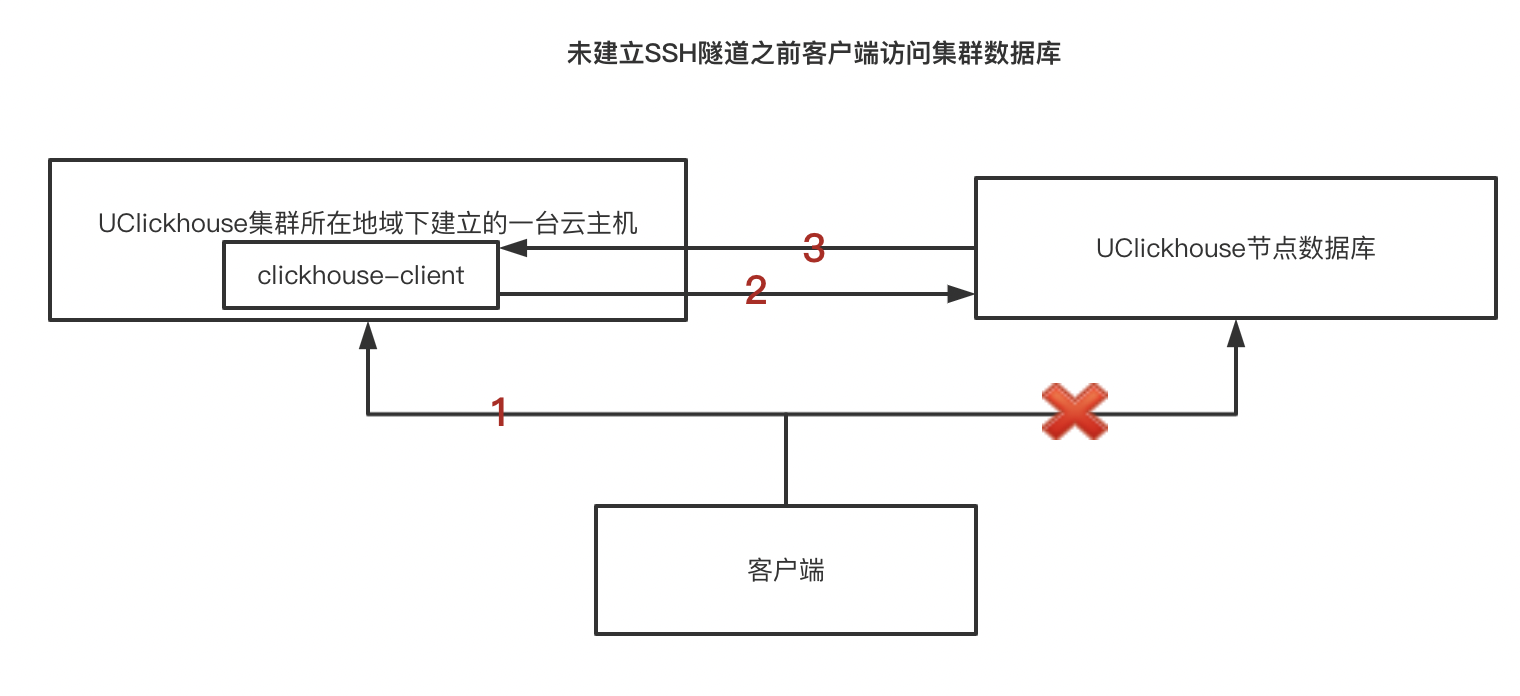
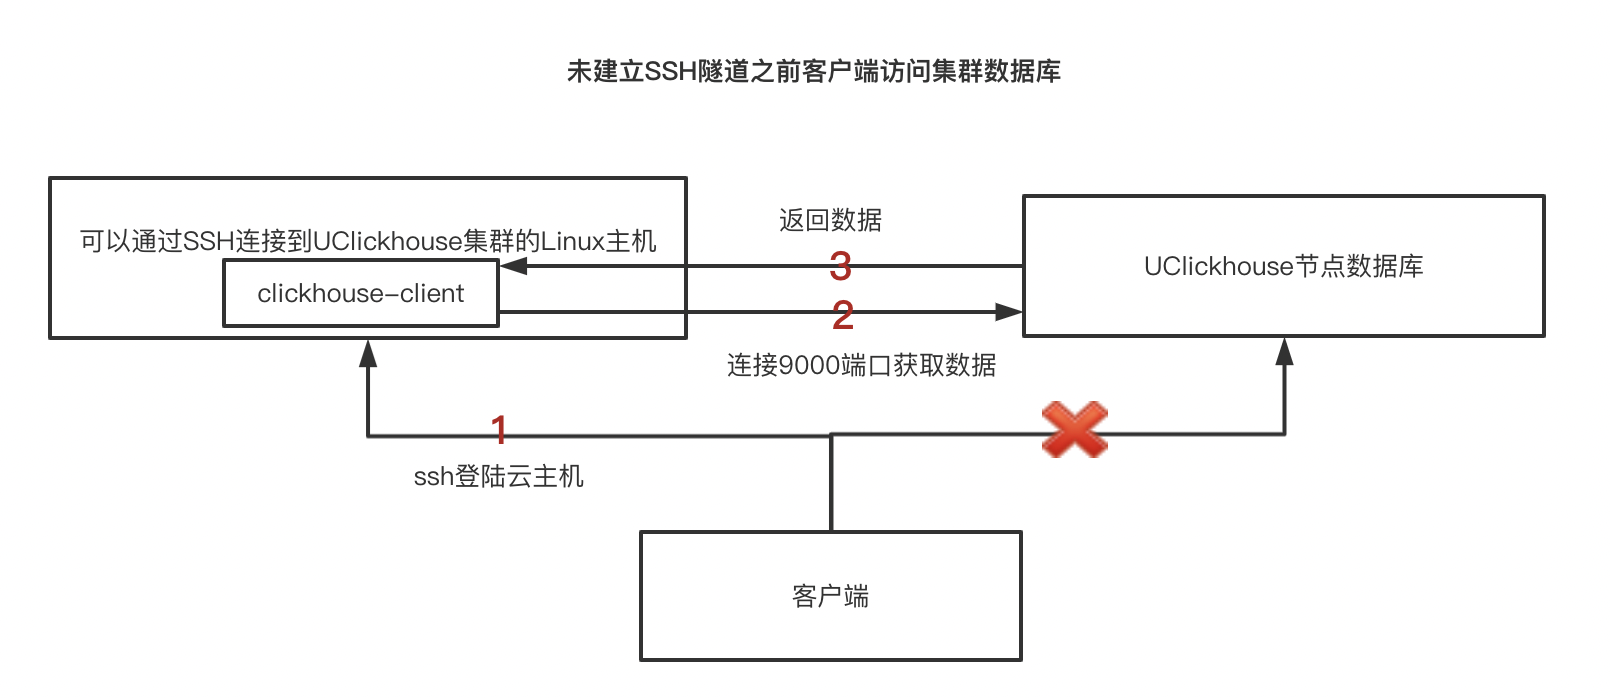
修改文件

diff --git a/operation_guide/connect_cluster/visual_tools.md b/operation_guide/connect_cluster/visual_tools.md
@@ -4,11 +4,11 @@ UClickhouse可以通过第三方客户端工具连接实例，针对有数据可
 
 ### DataGrip简介
 
-[DataGrip](https://www.jetbrains.com/datagrip/) 是JetBrains的数据库IDE，专门支持ClickHouse。 此工具支持ClickHouse语法高亮显示；支持ClickHouse特有的功能，例如嵌套列，表引擎；支持数据编辑等功能
+[DataGrip](https://www.jetbrains.com/datagrip/) 是JetBrains的数据库IDE，专门支持ClickHouse。 此工具支持ClickHouse语法高亮显示；支持ClickHouse特有的功能，例如嵌套列，表引擎；支持数据编辑等功能。
 
 ### 通过SSH隧道连接集群数据库介绍
 
-![image-20220724155359906](../../../udoris/images/client-ck-noconnect.png)
+![image-20220724162506709](../../../udoris/images/client-ck-noconnect-8651126.png)
 
 ![image-20220724155605707](../../../udoris/images/client-ck-connect.png)
 
